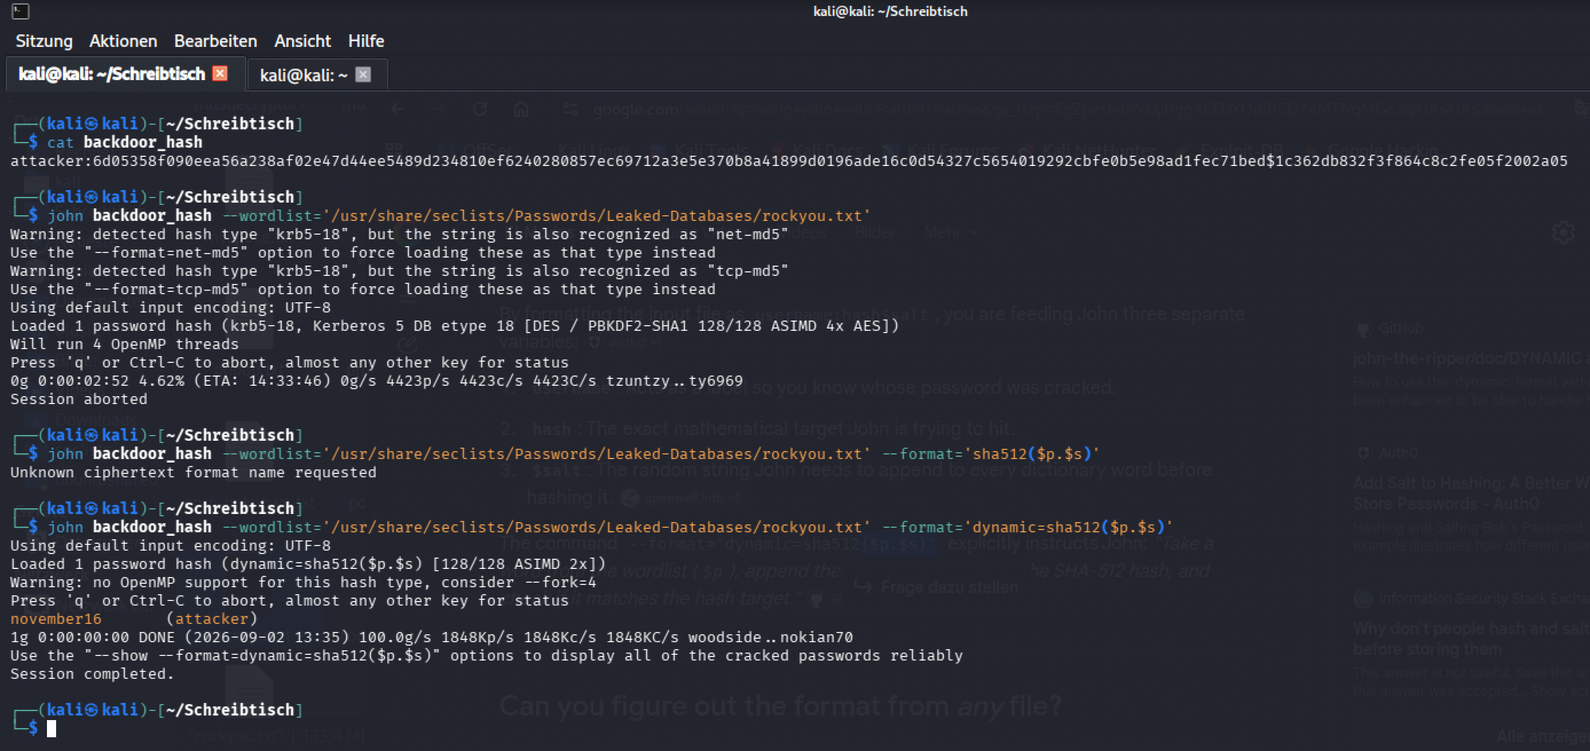
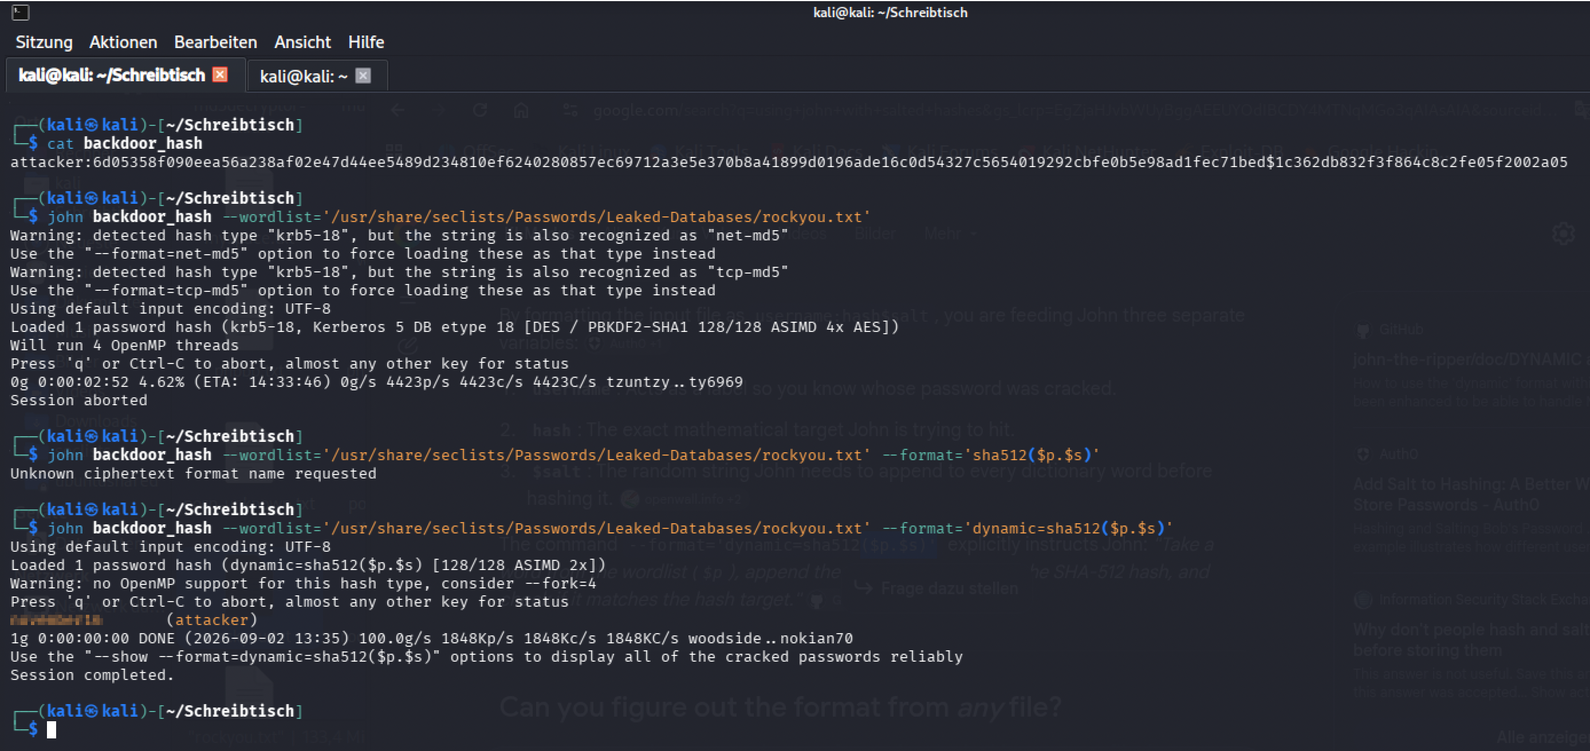
vault backup: 2026-10-29 20:59:21

diff --git a/_posts/2026-10-30-elastic-detection-lab.md b/_posts/2026-10-30-elastic-detection-lab.md
@@ -1,0 +1,181 @@
+---
+title: "Building an Elastic Detection Lab Around a PCAP I'd Already Solved"
+date: 2026-10-30 08:00:00 +0100
+categories:
+  - Projects
+  - Security
+tags:
+  - elastic
+  - detection-engineering
+  - docker
+  - packetbeat
+  - bash
+  - home-lab
+image:
+  path: /assets/img/posts/elastic-detection-lab/cover.png
+---
+
+## The Problem
+
+I'd already worked through TryHackMe's "Overpass 2 - Hacked" room: a PCAP of a real attack, read by hand in Wireshark, question by question. That's forensics, reading something that already happened. What it doesn't teach is what happens *before* someone reads the capture: how an alert gets generated in the first place, out of raw traffic, without a human already knowing what to look for.
+
+So I set myself a second use case against the same PCAP: build a real Elastic Security stack at home, feed it the Overpass 2 traffic, and write detection rules that actually fire against it, not just a writeup that says "this would have been caught." Everything here was built and run in a home lab, on my own machine, not in a professional environment, and I want to be upfront about something before going further: this was a lab built together with Claude Code, but not in the sense of Claude writing the config and me copy-pasting it. It acted as a tutor, asking me questions, answering mine, reviewing what I wrote and pointing out where it was wrong, while I typed every line of `compose.yml`, `packetbeat.yml`, and the ingest script myself. That distinction mattered more than I expected, and I'll get to why.
+
+## What It Does
+
+The lab is a single-node Elastic Stack, Elasticsearch + Kibana + Packetbeat 9.5.5, running in Docker (via OrbStack on my machine, arm64). A bash script, `ingest.sh`, takes the Overpass 2 PCAP, converts it if needed, hashes it, and feeds it to Packetbeat, which writes the traffic into Elasticsearch as searchable events. On top of that sit two detection rules in Elastic Security, each built against one specific thing the attacker did:
+
+**"mkfifo in HTTP request body"** (severity high): a custom-query rule that matches `http.request.body.content.text : *mkfifo*`. The room's own attack opens with a webshell upload, and that webshell's payload is a `mkfifo`-based reverse shell command sent over an HTTP POST body. The rule doesn't care whether `mkfifo` is dangerous on its own, it isn't, it's a normal tool for inter-process communication. What makes it worth flagging here is the context: a shell command sitting inside the body of an HTTP request to a web server has no legitimate reason to be there.
+
+**"Suspicious connection from server over unusual port"** (severity medium): a threshold rule that fires when the server itself opens a connection to a port other than 443 or 53, grouped by destination IP and port. This one's built to catch the outbound side of the attack, the reverse shell calling back to the attacker on port 4242, and a second thing I didn't expect to find (more on that below).
+
+Both rules are tested against the known incident capture, re-ingested, and verified through real alerts in Kibana, not something I'm claiming would work "live" without having actually run it that way.
+
+## How It Works
+
+### The environment, which turned out to be the bigger learning curve
+
+Writing the two rules in Elastic's query bar took less time than getting a working stack to run them against. Docker together with OrbStack was new to me going in, and the compose file, cert setup, and Packetbeat config all had their own ways of going wrong before anything reached a rule.
+
+`compose.yml` is Elastic's own multi-node example template, cut down to one node. A `setup` container runs once: it generates a CA and certificates with `elasticsearch-certutil`, waits for Elasticsearch to respond, and sets the `kibana_system` password, all before Elasticsearch or Kibana are allowed to start (`depends_on: condition: service_healthy`). The first real error I hit here was a misleading one: Kibana reported "detection engine permissions required" on startup, which sounds like an access problem. The actual cause, found by reading the API's own error message more carefully, was a missing encryption key: it specifically named the "Encrypted Saved Objects plugin," which maps to `XPACK_ENCRYPTEDSAVEDOBJECTS_ENCRYPTIONKEY`, unset in `.env`. Nothing to do with permissions at all.
+
+`packetbeat.yml` is where the actual pipeline lives: which protocols and ports to parse (HTTP's list includes 8080, which turns out to matter later), capturing the HTTP request body for multipart uploads, and two `fingerprint` processors that hash each event's identifying fields into a deterministic `_id`:
+
+```yaml
+processors:
+  - add_fields:
+      target: labels
+      fields:
+        pcap_original_sha256: ${LABELS_PCAP_ORIGINAL_SHA256}
+        pcap_working_sha256: ${LABELS_PCAP_WORKING_SHA256}
+  - fingerprint:
+      when:
+        not:
+          equals:
+            type: flow
+      method: sha256
+      fields: ["@timestamp", "network.protocol", "source.ip", "destination.ip", "source.port", "destination.port", "labels.pcap_original_sha256", "labels.pcap_working_sha256"]
+      ignore_missing: true
+      target_field: "@metadata._id"
+  - fingerprint:
+      when:
+        equals:
+          type: flow
+      method: sha256
+      fields: ["flow.id", "labels.pcap_original_sha256", "labels.pcap_working_sha256"]
+      ignore_missing: true
+      target_field: "@metadata._id"
+```
+
+That `_id` is what makes re-ingesting the same PCAP safe: Elasticsearch refuses to write a second document with an `_id` it already has, so running `ingest.sh` twice gives `acked: 0, duplicates: 71` instead of 71 duplicate events.
+
+`ingest.sh` is the part I wrote during an actual bash crash course, lesson by lesson, with real mistakes along the way. Two are worth showing because they changed how I think about the language, not just the script.
+
+First: I tried to store a command's output in a variable with `md5_original=(md5 -q $pcap_original)`, then checked it by typing `$md5_original` on its own. It printed the hash, which looked right, so I assumed it worked. Claude's read of it was that the mechanism was wrong even though the output looked correct: `name=(...)` in bash builds an *array* of words, it doesn't run anything. Typing `$md5_original` alone then executed that array as a command, which is what actually ran `md5 -q` and printed the hash. The variable held the command, not the result. `echo "$md5_original"` showed the words (`md5`, `-q`, the path) instead of a hash, which is what exposed it. The fix was `$(...)`, command substitution: `md5_original=$(md5 -q "$pcap_original")` runs the command and stores what it prints.
+
+Second, and this one was a forensic-integrity bug, not just a syntax error: an early draft of the script converted `.pcapng` to `.pcap` with `editcap`, then checked afterward whether the converted file's path happened to equal the original's path (to avoid overwriting the evidence if someone passed in a file that already had a `.pcap` extension). The guard was correct in principle. It sat *after* the `editcap` call that would have done the overwriting. By the time the check could catch the problem, the problem had already happened. Finding this before it ever ran against the real evidence copy was the whole point of writing the crash course against a disposable file first.
+
+```bash
+sha256_original=$(shasum -a 256 "$pcap_original" | cut -d " " -f1)
+
+filecheck=$(file -b "$pcap_original" | cut -d " " -f 1)
+if [ "$filecheck" == "pcap" ]; then
+	pcap_working="$pcap_original"
+elif [ "$filecheck" == "pcapng" ]; then
+	pcap_working="${pcap_original%.*}_converted.pcap"
+	if [ "$pcap_working" == "$pcap_original" ]; then
+		echo "Error: original file and converted file have the same filename." >&2
+		exit 1
+	fi
+	editcap -F pcap "$pcap_original" "$pcap_working"
+else
+	echo "Error: wrong file format ($filecheck)" >&2
+	exit 1
+fi
+
+sha256_working=$(shasum -a 256 "$pcap_working" | cut -d " " -f1)
+```
+
+The fixed order: name the converted file with a suffix that can never collide with the input (`_converted.pcap`), check the guard *before* calling `editcap`, hash both files, log it. Claude pointed out that this leaves two independent reasons the collision can't happen anymore, the naming rule and the explicit check, belt and suspenders, even though I'd only asked for the ordering bug to be fixed.
+
+### Getting the ingest time onto every event
+
+<img src="/assets/img/posts/elastic-detection-lab/elastic-detection-lab_01.png" width="700" alt="Packetbeat JSON log showing an x509 certificate signed by unknown authority error during an early test run">
+
+Both detection rules need a timestamp field they can run their look-back window against. The PCAP's own packet times are from July 2020, so a rule can't use `@timestamp` directly, that would mean scanning years back on every run. The field that should hold "when this got ingested," `event.ingested`, showed up as empty on every single one of the 71 events I'd written. Packetbeat's config had `pipeline: pcap-ingest` set, and testing that pipeline directly against Elasticsearch (`_ingest/_simulate`) proved it worked fine on its own. So config said use the pipeline, Elasticsearch could run the pipeline, and the actual written documents never went through it anyway. I never found out why Packetbeat itself wasn't sending the pipeline with its write requests, that's still an open question. What fixed it was going around the problem instead of through it: `index.final_pipeline` is a setting that lives on the index template rather than in the client's request. My first guess at why that mattered was incomplete, I knew it "runs always, last," but not the actual deciding point Claude filled in: any pipeline a client names in its own request can simply replace a regular pipeline, while `final_pipeline` runs after whichever pipeline ran and no client can switch it off. Setting `setup.template.settings: index.final_pipeline: pcap-ingest` in `packetbeat.yml`, then deleting the data stream so the setting applied to a freshly created backing index, got `event.ingested` into all 71 documents, no exceptions.
+
+<img src="/assets/img/posts/elastic-detection-lab/elastic-detection-lab_02.png" width="700" alt="Kibana Discover showing 71 documents with event.ingested now present on every one, packet time from 2020 next to ingest time from 2026">
+
+That same fix also explained an earlier moment of confusion: Discover showed 61 events for a query that should have returned 71. Not a data problem, a time-range problem: Discover's default range only covered events from "this year," which hid the 10 events still carrying their original 2020 timestamps. Widening the range to the last 10 years brought the count back to 71. Before trusting any count out of Discover after that, I check the time range first.
+
+### Two rules, two different stories about what "fired" means
+
+The custom-query rule's wizard preview kept failing with a 60-second timeout whenever I set a long look-back window like "last 10 years."
+
+<img src="/assets/img/posts/elastic-detection-lab/elastic-detection-lab_03.png" width="700" alt="Kibana rule preview timing out after 60 seconds, with errors stamped five minutes apart showing the simulated run progress">
+
+My first guess was that it was somehow about data volume, even with very few packets in the index. Wrong: Claude worked out the real mechanism from the error timestamps themselves, five minutes apart each. The preview doesn't just search once, it simulates a rule run at every scheduled interval across the whole window, so the cost scales with the number of runs (range divided by interval), not with how much data exists. Ten years at a 5-minute interval is roughly a million simulated runs, and those five-minute-apart error timestamps show exactly where it got stuck before giving up. A narrow 3-day window around the actual attack date found the one real hit in under a second.
+
+<img src="/assets/img/posts/elastic-detection-lab/elastic-detection-lab_04.png" width="700" alt="Rule preview with a narrow 3-day window around July 2020, showing exactly one alert">
+
+The rule went live after that, scheduled every 5 minutes with `event.ingested` as its timestamp override. I re-ingested the same PCAP a few more times while testing the port rule, and the mkfifo rule picked up the POST request and alerted for real, no preview, no manual trigger, three separate times.
+
+<img src="/assets/img/posts/elastic-detection-lab/elastic-detection-lab_05.png" width="700" alt="A real mkfifo alert in Kibana, with three different timestamps visible: when the event happened in 2020, when it was ingested, and when the rule alerted">
+
+That screenshot shows three different clocks on one alert: `kibana.alert.original_event.end` (2020, when the attack happened), `event.ingested` (when my script wrote it into Elasticsearch), and the alert's own `@timestamp` (when the rule noticed). Keeping those three straight in my head took a while; they're not the same thing and a rule built on the wrong one either never fires on old data or fires the moment anything is written, regardless of when it happened.
+
+What it didn't do: alert a fourth time on a later re-ingest of the exact same PCAP into the exact same backing index. The reason is the fingerprint `_id` again. Same evidence, same index, same `_id`, and Elasticsearch has already written that document, so there's nothing new to alert on. It's not that the rule stopped working, it's that re-ingesting identical evidence into the same place produces identical documents, and the rule correctly treats "the same document" as "already handled."
+
+### The port rule, and the thing I wasn't looking for
+
+The reverse shell on port 4242 is raw TCP with no application protocol Packetbeat recognizes, so it only exists as a *flow* record, not a parsed transaction. Checking that flow's own timing turned up something I didn't predict:
+
+<img src="/assets/img/posts/elastic-detection-lab/elastic-detection-lab_06.png" width="700" alt="Kibana Discover showing the port 4242 flow with an event duration of about 10 milliseconds, despite the real shell session lasting minutes">
+
+`event.duration` on that flow was about 10 milliseconds. The real shell session in the 2020 capture ran for minutes. The cause is a replay option in Packetbeat (`-t`, replay as fast as possible with no waiting between packets) combined with flows being timed on Packetbeat's own clock rather than the packet's original timing, so the whole multi-minute session compresses into however long the replay took. This stayed an open question rather than something I fixed: getting a flow's real packet-time duration back would mean a different tool entirely (something like Zeek, which keeps connection records tied to packet time), and that's its own project for later, not something I built.
+
+My first instinct for the port rule itself was a denylist: block specific ports I already knew were bad, 4242 among them. Claude pointed out the obvious weakness, an attacker who picks any other port walks straight past a list like that, and pushed me toward an allowlist instead: the server rarely opens outbound connections at all, so flag everything except the few ports it has a real reason to use. Checking which ports the server actually opened turned up 443, 53, and 8080. I'd assumed 8080 was my own Elastic stack's traffic leaking in. Checking its actual destination before allowing it ruled that out: 8080 went straight to the attacker's IP, not to anything of mine.
+
+<img src="/assets/img/posts/elastic-detection-lab/elastic-detection-lab_07.png" width="700" alt="Rule preview showing 5 alerts split across two different time groups, flows and HTTP transactions">
+
+That preview is where the find actually showed up: two of the five hits on port 8080 were full HTTP transactions, not just flows, fetching `index.html` and `cooctus.png` from the attacker's server. Going by the filenames, that's likely the defaced page from the room itself, "H4ck3d by CooctusClan," with the cactus mascot, though I never checked the actual fetched bytes against the page content to confirm it. Either way, the port rule, built for the reverse shell, also caught this second download, purely because the allowlist check forced me to look at where 8080 went instead of assuming it was harmless.
+
+Suppressing duplicate alerts per destination (so the flow and the HTTP transaction for the same connection collapse into one) needs a feature locked behind an Elastic Platinum license, which this lab doesn't have.
+
+<img src="/assets/img/posts/elastic-detection-lab/elastic-detection-lab_08.png" width="700" alt="Kibana's alert suppression option, grayed out with a tooltip stating it requires a Platinum license or above">
+
+The free workaround is a threshold rule: group by destination IP and port, alert once per group instead of once per document.
+
+<img src="/assets/img/posts/elastic-detection-lab/elastic-detection-lab_09.png" width="700" alt="Threshold rule preview showing 2 alerts, one per remote endpoint, down from 5 individual document hits">
+
+Two alerts instead of five, one per remote endpoint. The trade-off: a threshold alert carries the group fields and a count, not the original source document, so the URL and the 2020 timestamp from that HTTP transaction aren't on the alert itself, an analyst would have to go look them up separately. For a known forensic capture that's a fine trade; for something monitored going forward, that's a real limit, not just a detail.
+
+### What "alert identity" means for a rule you re-ingest into
+
+<img src="/assets/img/posts/elastic-detection-lab/elastic-detection-lab_10.png" width="700" alt="All 8 alerts from both rules, with their ancestor source index and document id columns visible, showing which alerts share a source document and which don't">
+
+Eight total alerts came out of both rules across several re-ingests. The mkfifo rule only ever alerted when the underlying document's `_id` and backing index were genuinely new (a fresh data stream, created on a different day); re-ingesting the identical document into an unchanged index produced no new alert. The threshold rule has no single source document behind each alert at all, its identity comes from the group and the run, so it alerted again every single time, regardless of whether the underlying traffic was new. Re-ingesting the same incident repeatedly, which is exactly what testing a rule against a fixed capture involves, feeds the threshold rule's alert count every time. That's alert fatigue in miniature, and it's the kind of thing these two rules, tested only by re-ingesting the same fixed capture, can hide until one of them is watching something live.
+
+## Bugs Found in Testing
+
+- **Misleading permission error.** Kibana's "detection engine permissions required" message was actually a missing encryption key in `.env`, nothing to do with access rights.
+- **Pipeline configured but never applied.** `output.elasticsearch.pipeline: pcap-ingest` was present in Packetbeat's effective config and worked correctly when tested directly against Elasticsearch, but the documents Packetbeat wrote never went through it. Root cause unresolved; fixed by forcing the pipeline at the index-template level instead (`index.final_pipeline`), which the client can't skip.
+- **Rule preview timeout on long look-back windows.** A 10-year window simulates roughly a million scheduled runs and hits Kibana's 60-second preview limit every time. A narrow window around the real event date avoids it; Kibana's own UI warns about this if you read it.
+- **Flow timing doesn't reflect the original packet timing.** Replaying with `-t` (no delay between packets) compresses a multi-minute real session into a 10-millisecond flow record. Not fixed in this lab; would need a different ingest tool to preserve real connection duration.
+- **Bash: array vs. command substitution.** `name=(command args)` builds an array of words and runs nothing; `name=$(command args)` runs the command and stores its output. Both can look identical at the prompt if you only check the final printed value.
+- **Guard placed after the operation it was supposed to prevent.** An early `ingest.sh` draft checked for a potential evidence-overwrite collision *after* the `editcap` call that would cause it, which defeats the entire point of the guard.
+- **Discover time range silently hides data.** A query that should return 71 documents returned 61 because the default range excluded the 10 events still carrying their original 2020 timestamps.
+
+## Next Steps
+
+- A real packet-time-preserving ingest path (Zeek's `conn.log` or similar) instead of Packetbeat flows, to get accurate connection durations without replaying in real time.
+- Working out why Packetbeat's own `pipeline:` setting never reached the write requests, rather than routing around it with `final_pipeline`.
+- Revisiting the port allowlist: it currently only excludes 443 and 53 by port number, which means the backdoor's own download over 443 and any DNS-tunneling traffic over 53 would both pass through unflagged. A pairing of port *and* expected destination would close part of that gap, not built yet.
+- The ICMP branch of the port rule (`not destination.port : *`) is intentional but untested, since this capture has no ICMP traffic to validate it against.
+- Testing what alert suppression would look like with a Platinum trial, now that the threshold-rule workaround and its limits are understood firsthand.
+
+## References
+
+- [Elastic Security documentation](https://www.elastic.co/guide/en/security/current/index.html)
+- [Packetbeat reference](https://www.elastic.co/guide/en/beats/packetbeat/current/index.html)
+- [TryHackMe Room — Overpass 2 - Hacked](https://tryhackme.com/room/overpass2hacked), the PCAP this lab is built around. See the [full writeup](/posts/overpass2/) for how the attack itself was originally read by hand.

diff --git a/_posts/2026-09-07-overpass2.md b/_posts/2026-09-07-overpass2.md
@@ -81,9 +81,9 @@ Reading the backdoor's own `main.go` on GitHub answers the room's next set of qu
 
 ### Cracking the attacker's own password
 
-Putting the attacker's hash and the salt from the source together into a `username:hash$salt` file, the first John attempt misfired, John guessed the wrong hash type entirely (`krb5-18`) instead of recognizing it as SHA512-crypt with a custom salt format:
+Putting the attacker's hash and the salt from the source together into a `username:hash$salt` file, the first John attempt misfired, John guessed the wrong hash type entirely (`krb5-18`) instead of recognizing it as a plain salted SHA-512 hash, the backdoor's `verifyPass` just concatenates password and salt and runs SHA-512 once, not the SHA512-crypt format John's auto-detect assumed:
 
-<img src="/assets/img/posts/overpass2/overpass2_10.png" width="700" alt="John misidentifying the format as krb5-18, then a second attempt with an explicit sha512($p.$s) format cracking the password to november16">
+<img src="/assets/img/posts/overpass2/overpass2_10.png" width="700" alt="John misidentifying the format as krb5-18, then a second attempt with an explicit sha512($p.$s) format cracking the password (shown redacted)">
 
 Forcing the exact format fixed it:
 
@@ -131,7 +131,7 @@ Root flag: `[redacted]`
 
 ## Defensive takeaways
 
-Every step in this chain traces back to something specific and fixable. The upload endpoint accepted a `.php` file with no server-side type or content check at all, a working upload feature needs to validate what it's actually receiving, not just that something arrived. The whole attack was readable after the fact only because it ran over plain, unencrypted netcat, an attacker's own reverse shell traffic is exactly the kind of thing a network IDS watching for outbound connections to unusual ports should flag on its own. James's real password being visible mid-session is a direct consequence of that same lack of encryption, nothing about the password itself was weak, the channel it traveled over was. Four of five system passwords fell to a small, publicly available wordlist, password policy enforcement would have closed that path regardless of anything else on the box. And the SUID `.suid_bash` binary is the cleanest lesson of the five: nothing on this system needed a setuid shell sitting in a user's home directory, and a routine audit for unexpected SUID binaries (`find / -perm -4000` and reviewing what comes back) would have caught it before an attacker ever could.
+Every step in this chain traces back to something specific and fixable. The upload endpoint accepted a `.php` file with no server-side type or content check at all, a working upload feature needs to validate what it's actually receiving, not just that something arrived. The whole attack was readable after the fact only because it ran over plain, unencrypted netcat, an attacker's own reverse shell traffic is exactly the kind of thing a network IDS watching for outbound connections to unusual ports should flag on its own (an idea I actually built and tested afterward, see [the Elastic detection lab post](/posts/elastic-detection-lab/)). James's real password being visible mid-session is a direct consequence of that same lack of encryption, nothing about the password itself was weak, the channel it traveled over was. Four of five system passwords fell to a small, publicly available wordlist, password policy enforcement would have closed that path regardless of anything else on the box. And the SUID `.suid_bash` binary is the cleanest lesson of the five: nothing on this system needed a setuid shell sitting in a user's home directory, and a routine audit for unexpected SUID binaries (`find / -perm -4000` and reviewing what comes back) would have caught it before an attacker ever could.
 
 ## Lessons Learned
 
@@ -142,3 +142,4 @@ The room's own tasks matched the natural order of the investigation closely, whi
 - [TryHackMe Room — Overpass 2 - Hacked](https://tryhackme.com/room/overpass2hacked)
 - [John the Ripper](https://www.openwall.com/john/)
 - [Wireshark](https://www.wireshark.org/)
+- [Darknet Diaries — EP 174: Pacific Rim](https://darknetdiaries.com/episode/174/): a case study in the same gap this room walks through, Sophos spent years defending against state-linked groups attacking its own firewalls, and expanded its firewall telemetry in response. Worth listening to if the network-visibility point in the Defensive takeaways above is interesting on its own.

diff --git a/_posts/2026-11-04-handbook-for-the-recently-compromised.md b/_posts/2026-11-04-handbook-for-the-recently-compromised.md
@@ -1,6 +1,6 @@
 ---
 title: "Handbook for the Recently Compromised"
-date: 2026-10-30 09:00:00 +0100
+date: 2026-11-04 09:00:00 +0100
 categories: [Writeups, TryHackMe]
 tags: [windows-forensics, sysmon, powershell, living-off-the-land, cyberchef]
 image:
@@ -81,6 +81,13 @@ The script writes that decoded value out to a cache file under `%TEMP%\PipelineS
 - A wildcard glob in a command line (`certu*.exe`) is easy to miss if you're grepping for the literal binary name. I started broad with PowerShell itself and only noticed the wildcard once I was already reading the full command.
 - Script Block Logging turning obfuscated, string-concatenated PowerShell back into its final, readable form was the part that actually made this solvable. Without it, the flag would've stayed buried in dozens of joined string fragments.
 - Walking this log by `ProcessId`/`ParentProcessId`, one grep at a time, was slow, but it was the only way I had to put the chain back together with just one event log to go on.
+
+## Defensive Takeaways
+
+- PowerShell Script Block Logging is the only reason the base64 payload was recoverable at all. Without it, defenders would see the certutil download and nothing about what the script actually did afterward.
+- Detection has to match the download's behavior, not the literal command-line string. `certu*.exe` defeats name-based detection; matching on `certutil.exe making a network connection and writing a file` instead would have caught it regardless of how the binary got invoked.
+- `mshta.exe` has very little legitimate use in a modern environment. Blocking or alerting on it outright would have stopped the whole chain at its actual starting point, before certutil or the scheduled task ever ran.
+- A scheduled task created with `/rl highest /sc onlogon`, whose parent process is `powershell.exe` rather than an installer, is worth alerting on by itself — that combination is a persistence pattern, not routine software setup.
 
 ## References
 

diff --git a/_posts/2026-11-06-the-waiting-room.md b/_posts/2026-11-06-the-waiting-room.md
@@ -1,6 +1,6 @@
 ---
 title: The Waiting Room
-date: 2026-10-31 08:00:00 +0100
+date: 2026-11-06 08:00:00 +0100
 categories:
   - Writeups
   - TryHackMe
@@ -101,6 +101,13 @@ The SHA256 of that CSV content `[redacted]` was the room's final answer.
 - I'd never heard of the Right-to-Left Override trick before this room. I stared at that reversed filename for longer than I'd like to admit before I remembered my own earlier note about the stray codepoint sitting next to it, and only understood what I was looking at after searching for the codepoint itself.
 - I got stuck on an unmatched hash for a while because I skipped VirusTotal entirely at first. Having the hash isn't the same as having checked it against anything.
 - I don't know JavaScript well, and I used an AI assistant to help read through the obfuscated loader rather than pretending I worked it out line by line myself. That's genuinely how I got through it, RC4 included. I wouldn't have named the algorithm on my own.
+
+## Defensive Takeaways
+
+- A detection rule flagging the U+202E Right-to-Left Override codepoint in filenames would have caught the disguised `.hta` before `mshta.exe` ever ran it. That character has almost no legitimate use in a filename.
+- `ONENOTE.EXE` spawning `mshta.exe`, which in turn spawns `cscript.exe`, is a chain an Office application has no business starting. An Attack Surface Reduction rule blocking Office apps from creating child processes would have stopped this at the very first step.
+- A mail gateway that inspects `.one`/OneNote attachments for embedded script content, instead of only matching known-bad hashes, would have had a shot at this before it ever reached `m.smith`'s inbox.
+- The exported `remittance-v2.png` was flagged by `file` as plain "data," not an image, despite the extension. A mismatch between declared Content-Type and actual content is a usable network-level indicator for catching disguised exfil or payload traffic on the wire.
 
 ## References
 
